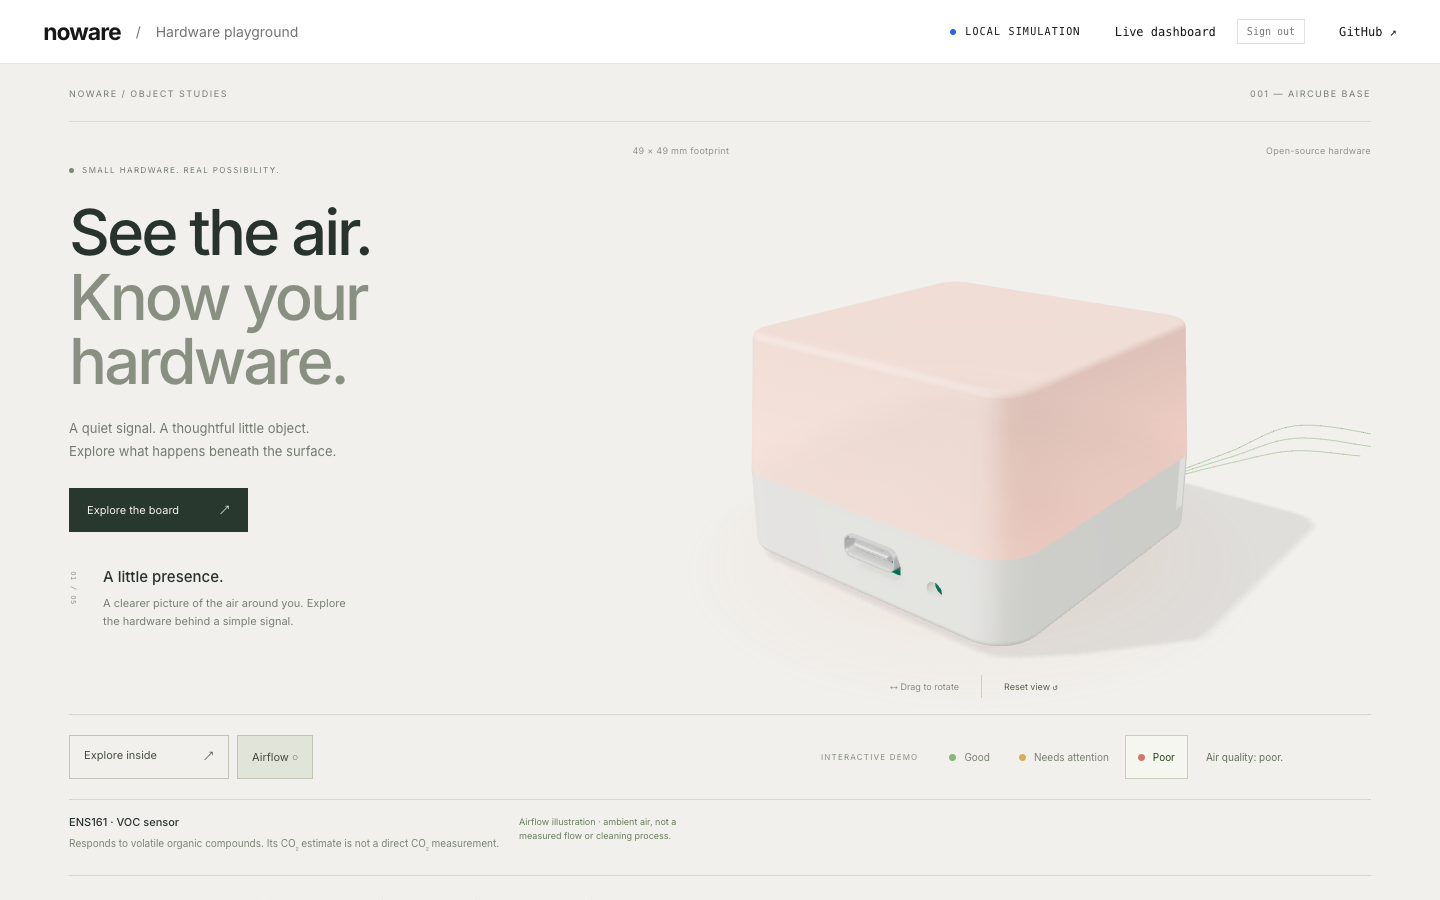
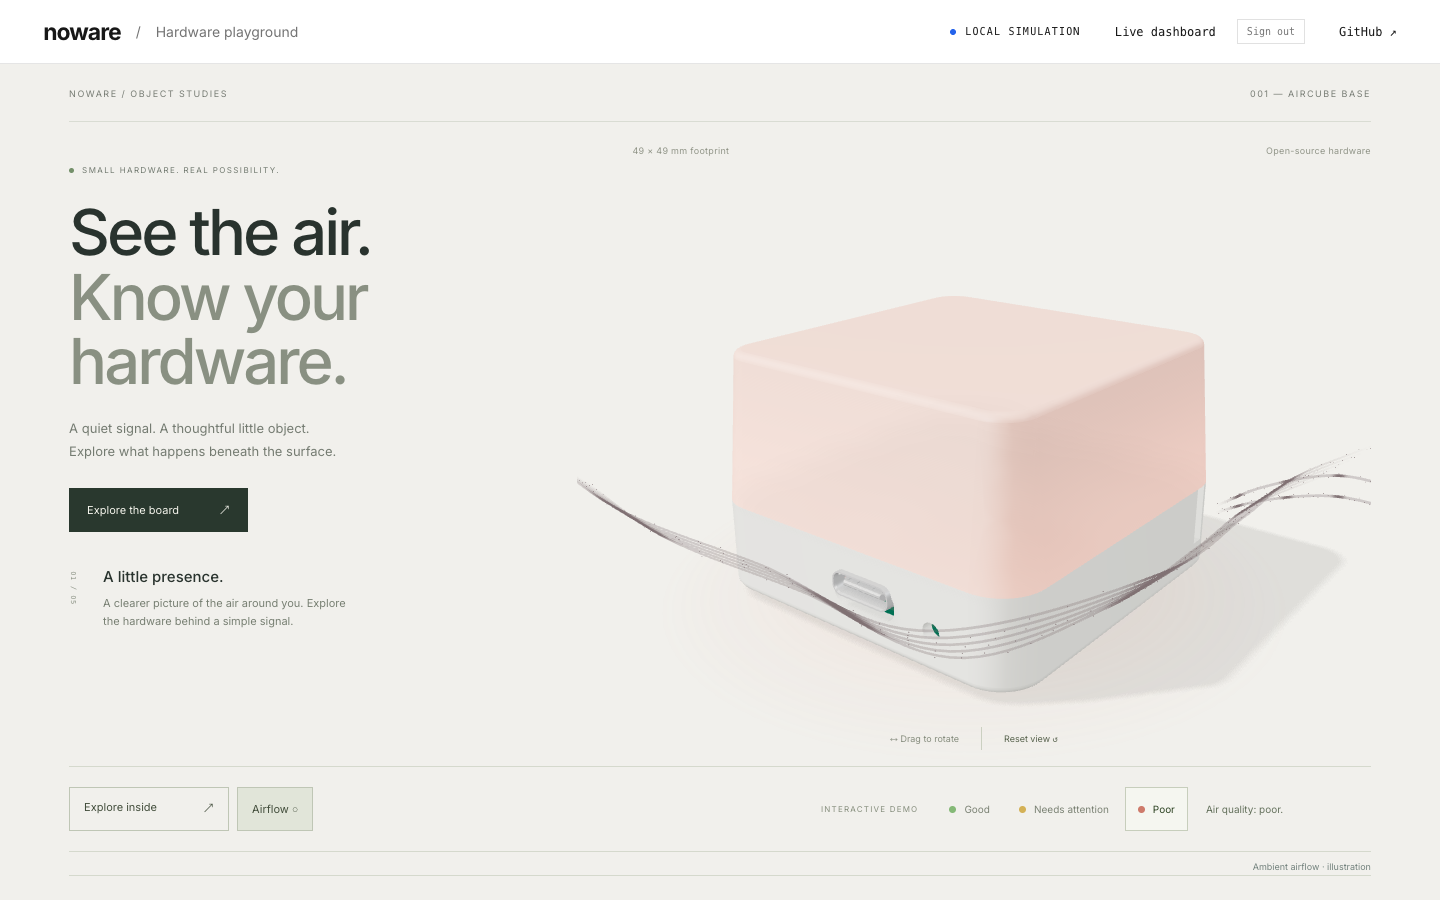
Make ambient airflow more visible and simplify homepage details

diff --git a/src/showcase/index.js b/src/showcase/index.js
@@ -1,13 +1,20 @@
 import './showcase.css';
-import {chapters,components,storyPose} from './config.js';
+import {chapters,storyPose} from './config.js';
 export function mountShowcase(){
  const section=document.createElement('section');section.className='hardware-story';section.id='hardware';section.setAttribute('aria-label','Explore AirCube hardware');
- section.innerHTML=`<div class="hardware-sticky"><div class="hardware-topline"><span>NOWARE / OBJECT STUDIES</span><span>001 — AIRCUBE BASE</span></div><div class="hardware-layout"><div class="hardware-copy"><div class="hardware-kicker"><span></span> SMALL HARDWARE. REAL POSSIBILITY.</div><h2>See the air.<br><em>Know your<br class="desktop-break"> hardware.</em></h2><p class="hardware-intro">A quiet signal. A thoughtful little object.<br>Explore what happens beneath the surface.</p><a class="hardware-cta" href="#playground">Explore the board <span>↗</span></a><div class="hardware-chapter"><span id="hardware-number">01 / 05</span><h3 id="hardware-title">A little presence.</h3><p id="hardware-description">A clearer picture of the air around you. Explore the hardware behind a simple signal.</p></div></div><div class="hardware-visual"><div class="hardware-model-meta"><span>49 × 49 mm footprint</span><span>Open-source hardware</span></div><img class="hardware-poster" src="/showcase/poster.webp" alt="AirCube Base, a softly illuminated translucent top on a warm white rounded enclosure" width="1100" height="1000" fetchpriority="high"><div class="hardware-canvas"></div><div class="hardware-anchors"><button data-anchor="diffuser" data-part="diffuser" hidden>Diffuser</button><button data-anchor="U2" data-part="U2" hidden>ENS161</button><button data-anchor="pcb" data-part="pcb" hidden>Base PCB</button></div><div class="hardware-view-tools"><span>↔ Drag to rotate</span><button data-action="reset">Reset view ↺</button></div><p class="hardware-fallback" role="status">Loading the interactive model…</p></div></div><div class="hardware-controls"><div class="hardware-assembly"><button data-action="explode" aria-pressed="false">Explore inside <span>↗</span></button><button data-action="airflow" aria-pressed="false">Airflow <span>○</span></button></div><div class="hardware-air"><span class="hardware-demo">INTERACTIVE DEMO</span><div role="group" aria-label="Air quality demonstration"><button data-air="good" aria-pressed="true"><i></i>Good</button><button data-air="attention" aria-pressed="false"><i></i>Needs attention</button><button data-air="poor" aria-pressed="false"><i></i>Poor</button></div><span class="hardware-status" role="status">Air quality: good.</span></div></div><div class="hardware-details"><div class="hardware-part-copy" aria-live="polite"><strong>Designed to be understood.</strong><span>Open the housing, then select a component to look closer.</span></div><div class="hardware-part-buttons" aria-label="Inspect components" hidden>${['diffuser','airwall','U2','U10','U7','pcb'].map(n=>`<button data-part="${n}">${components[n][0].split(' · ')[0]}</button>`).join('')}</div><p class="hardware-flow-note" hidden>Airflow illustration · ambient air, not a measured flow or cleaning process.</p></div><nav class="hardware-chapters" aria-label="Hardware story">${['Meet the hardware','Explore inside','Follow the air','Read the light','Keep exploring'].map((t,i)=>`<button data-chapter="${i}" aria-current="${i===0?'step':'false'}"><span>0${i+1}</span>${t}</button>`).join('')}<button data-action="scroll" hidden>Resume scroll story ↓</button></nav><div class="hardware-bottomline"><span>BUILT FROM REAL CAD. MADE FOR CURIOSITY.</span><a href="/showcase/README.md" target="_blank" rel="noreferrer">Model & source notes ↗</a></div></div>`;
- document.querySelector('header').after(section);document.querySelector('.intro').id='playground';
+ section.innerHTML=`<div class="hardware-sticky"><div class="hardware-topline"><span>NOWARE / OBJECT STUDIES</span><span>001 — AIRCUBE BASE</span></div><div class="hardware-layout"><div class="hardware-copy"><div class="hardware-kicker"><span></span> SMALL HARDWARE. REAL POSSIBILITY.</div><h2>See the air.<br><em>Know your<br class="desktop-break"> hardware.</em></h2><p class="hardware-intro">A quiet signal. A thoughtful little object.<br>Explore what happens beneath the surface.</p><a class="hardware-cta" href="#playground">Explore the board <span>↗</span></a><div class="hardware-chapter"><span id="hardware-number">01 / 05</span><h3 id="hardware-title">A little presence.</h3><p id="hardware-description">A clearer picture of the air around you. Explore the hardware behind a simple signal.</p></div></div><div class="hardware-visual"><div class="hardware-model-meta"><span>49 × 49 mm footprint</span><span>Open-source hardware</span></div><img class="hardware-poster" src="/showcase/poster.webp" alt="AirCube Base, a softly illuminated translucent top on a warm white rounded enclosure" width="1100" height="1000" fetchpriority="high"><div class="hardware-canvas"></div><div class="hardware-anchors"><button data-anchor="diffuser" data-part="diffuser" hidden>Diffuser</button><button data-anchor="U2" data-part="U2" hidden>ENS161</button><button data-anchor="pcb" data-part="pcb" hidden>Base PCB</button></div><div class="hardware-view-tools"><span>↔ Drag to rotate</span><button data-action="reset">Reset view ↺</button></div><p class="hardware-fallback" role="status">Loading the interactive model…</p></div></div><div class="hardware-controls"><div class="hardware-assembly"><button data-action="explode" aria-pressed="false">Explore inside <span>↗</span></button><button data-action="airflow" aria-pressed="false">Airflow <span>○</span></button></div><div class="hardware-air"><span class="hardware-demo">INTERACTIVE DEMO</span><div role="group" aria-label="Air quality demonstration"><button data-air="good" aria-pressed="true"><i></i>Good</button><button data-air="attention" aria-pressed="false"><i></i>Needs attention</button><button data-air="poor" aria-pressed="false"><i></i>Poor</button></div><span class="hardware-status" role="status">Air quality: good.</span></div></div><p class="hardware-flow-note" hidden>Ambient airflow · illustration</p><nav class="hardware-chapters" aria-label="Hardware story">${['Meet the hardware','Explore inside','Follow the air','Read the light','Keep exploring'].map((t,i)=>`<button data-chapter="${i}" aria-current="${i===0?'step':'false'}"><span>0${i+1}</span>${t}</button>`).join('')}<button data-action="scroll" hidden>Resume scroll story ↓</button></nav><div class="hardware-bottomline"><span>BUILT FROM REAL CAD. MADE FOR CURIOSITY.</span><a href="/showcase/README.md" target="_blank" rel="noreferrer">Model & source notes ↗</a></div></div>`;
+ document.querySelector('header').after(section);
+ // Keep the engineering tools available on demand, without a PCB list filling
+ // the landing page. Existing event handlers and DOM references remain intact.
+ const playground=document.createElement('details');playground.id='playground';playground.className='hardware-playground';
+ playground.innerHTML='<summary>Hardware playground <span>Open the engineering tools ↗</span></summary>';
+ const intro=document.querySelector('.intro');intro.before(playground);
+ playground.append(intro,document.querySelector('main'));
+ section.querySelector('.hardware-cta').addEventListener('click',()=>{playground.open=true;});
  const $=s=>section.querySelector(s),reduced=matchMedia('(prefers-reduced-motion: reduce)'),mobile=matchMedia('(max-width: 700px)');
  const state={progress:0,air:'good',selected:null,mode:reduced.matches||mobile.matches?'manual':'scroll',exploded:false,airflow:null,rotation:0,tilt:0,dragging:false,reduced:reduced.matches};let scene,dead=false;
- function sync(){const pose=storyPose(state.progress),expanded=state.mode==='scroll'?pose.explode>.5:state.exploded;section.dataset.mode=state.mode;section.dataset.chapter=pose.chapter;section.dataset.selected=state.selected||'';section.style.setProperty('--air-color',({good:'#7dbb70',attention:'#cea338',poor:'#d26c5c'})[state.air]);$('#hardware-number').textContent=`0${pose.chapter+1} / 05`;$('#hardware-title').textContent=chapters[pose.chapter][1];$('#hardware-description').textContent=chapters[pose.chapter][2];$('[data-action="explode"]').innerHTML=(expanded?'Reassemble':'Explore inside')+' <span>↗</span>';$('[data-action="explode"]').setAttribute('aria-pressed',expanded);const flow=state.airflow??pose.flow;$('[data-action="airflow"]').setAttribute('aria-pressed',flow);$('.hardware-flow-note').hidden=!flow;$('.hardware-part-buttons').hidden=!expanded;$('[data-action="scroll"]').hidden=state.mode==='scroll'||mobile.matches||state.reduced;section.querySelectorAll('[data-chapter]').forEach(b=>b.setAttribute('aria-current',+b.dataset.chapter===pose.chapter?'step':'false'));scene?.wake();}
- function select(name){state.selected=name;$('.hardware-part-copy').innerHTML=`<strong>${components[name][0]}</strong><span>${components[name][1]}</span>`;section.querySelectorAll('[data-part]').forEach(b=>b.setAttribute('aria-pressed',b.dataset.part===name));sync()}
+ function sync(){const pose=storyPose(state.progress),expanded=state.mode==='scroll'?pose.explode>.5:state.exploded;section.dataset.mode=state.mode;section.dataset.chapter=pose.chapter;section.dataset.selected=state.selected||'';section.style.setProperty('--air-color',({good:'#7dbb70',attention:'#cea338',poor:'#d26c5c'})[state.air]);$('#hardware-number').textContent=`0${pose.chapter+1} / 05`;$('#hardware-title').textContent=chapters[pose.chapter][1];$('#hardware-description').textContent=chapters[pose.chapter][2];$('[data-action="explode"]').innerHTML=(expanded?'Reassemble':'Explore inside')+' <span>↗</span>';$('[data-action="explode"]').setAttribute('aria-pressed',expanded);const flow=state.airflow??pose.flow;$('[data-action="airflow"]').setAttribute('aria-pressed',flow);$('.hardware-flow-note').hidden=!flow;$('[data-action="scroll"]').hidden=state.mode==='scroll'||mobile.matches||state.reduced;section.querySelectorAll('[data-chapter]').forEach(b=>b.setAttribute('aria-current',+b.dataset.chapter===pose.chapter?'step':'false'));scene?.wake();}
+ function select(name){state.selected=name;section.querySelectorAll('[data-part]').forEach(b=>b.setAttribute('aria-pressed',b.dataset.part===name));sync()}
  section.addEventListener('click',e=>{const b=e.target.closest('button');if(!b)return;if(b.dataset.air){state.air=b.dataset.air;section.querySelectorAll('button[data-air]').forEach(el=>el.setAttribute('aria-pressed',el===b));$('.hardware-status').textContent='Air quality: '+({good:'good',attention:'needs attention',poor:'poor'})[state.air]+'.';}
  if(b.dataset.part)select(b.dataset.part);
  if(b.dataset.chapter){const i=+b.dataset.chapter;state.mode='manual';state.progress=i===4?1:(i+.5)/5;state.exploded=i===1||i===2;state.airflow=i===2;}
@@ -18,6 +25,6 @@ export function mountShowcase(){
  function scroll(){if(state.mode!=='scroll')return;const r=section.getBoundingClientRect();state.progress=Math.max(0,Math.min(1,-r.top/(section.offsetHeight-innerHeight)));sync()}
  function motion(){state.reduced=reduced.matches;if(state.reduced||mobile.matches){state.mode='manual';state.progress=0;state.exploded=false;}sync()}
  window.addEventListener('scroll',scroll,{passive:true});reduced.addEventListener('change',motion);mobile.addEventListener('change',motion);sync();
- import('./scene.js').then(({createScene})=>createScene($('.hardware-canvas'),state,select,()=>{if(dead)return;section.classList.add('hardware-ready');$('.hardware-fallback').hidden=true;})).then(s=>{scene=s;if(dead)s.dispose();else sync()}).catch(error=>{console.error('Hardware showcase:',error);section.classList.add('hardware-unavailable');$('.hardware-fallback').textContent='3D is unavailable. Explore the component descriptions and the board below.';});
+ import('./scene.js').then(({createScene})=>createScene($('.hardware-canvas'),state,select,()=>{if(dead)return;section.classList.add('hardware-ready');$('.hardware-fallback').hidden=true;})).then(s=>{scene=s;if(dead)s.dispose();else sync()}).catch(error=>{console.error('Hardware showcase:',error);section.classList.add('hardware-unavailable');$('.hardware-fallback').textContent='3D is unavailable. The product preview and hardware playground remain available.';});
  const cleanup=()=>{dead=true;scene?.dispose();window.removeEventListener('scroll',scroll);reduced.removeEventListener('change',motion);mobile.removeEventListener('change',motion)};window.addEventListener('pagehide',event=>{if(!event.persisted)cleanup()});return cleanup;
 }

diff --git a/src/showcase/airflow.js b/src/showcase/airflow.js
@@ -1,8 +1,84 @@
 import * as T from 'three';
 import {settings} from './config.js';
-// Exterior paths stop outside the front ventilation gap. No claimed internal fluid path.
-export function makeAirflow(){const group=new T.Group(),curves=[];const color=new T.Color('#91d980');
- for(let i=0;i<3;i++){const c=new T.CatmullRomCurve3([new T.Vector3(44+i*3,11+i*2,-38),new T.Vector3(36,12+i*2,-31),new T.Vector3(28,9+i,-28),new T.Vector3(22,7+i*.4,-23)]);curves.push(c);const g=new T.BufferGeometry().setFromPoints(c.getPoints(60));group.add(new T.Line(g,new T.LineBasicMaterial({color:color.clone().multiplyScalar(.48),transparent:true,opacity:.4})));}
- const positions=new Float32Array(settings.flowCount*3);const geo=new T.BufferGeometry();geo.setAttribute('position',new T.BufferAttribute(positions,3));const material=new T.PointsMaterial({color,size:.48,transparent:true,opacity:.8,depthWrite:false});group.add(new T.Points(geo,material));const v=new T.Vector3();
- return {group,update(time,tint,reduced){material.color.copy(tint);for(let i=0;i<settings.flowCount;i++){curves[i%3].getPoint((i/settings.flowCount+(reduced?0:time*.13))%1,v);v.toArray(positions,i*3)}geo.attributes.position.needsUpdate=true;}};
+
+// Ambient streamlines skirt the enclosure's exterior (49 mm footprint).
+// They never cross a solid wall or imply a fan, filter, or measured particle count.
+export function makeAirflow(){
+ const group=new T.Group();group.name='ambient-air';
+ const uniforms={time:{value:0},tint:{value:new T.Color('#627e81')}};
+ const material=new T.ShaderMaterial({
+  uniforms,transparent:true,depthWrite:false,side:T.FrontSide,
+  vertexShader:`uniform float time;varying vec2 flowUV;varying float edgeSoftness;
+   void main(){flowUV=uv;vec3 p=position;
+    p.y+=sin(position.x*0.13+position.z*0.08-time*0.9)*0.45;
+    vec4 view=modelViewMatrix*vec4(p,1.0);
+    edgeSoftness=pow(abs(dot(normalize(normalMatrix*normal),normalize(-view.xyz))),0.7);
+    gl_Position=projectionMatrix*view;}`,
+  fragmentShader:`uniform float time;uniform vec3 tint;varying vec2 flowUV;varying float edgeSoftness;
+   void main(){
+    float u=flowUV.x;
+    float pulse=pow(0.5+0.5*cos((u-time*0.12)*25.1327),12.0);
+    float fade=smoothstep(0.0,0.10,u)*(1.0-smoothstep(0.87,1.0,u));
+    float alpha=(0.10+pulse*0.78)*fade*edgeSoftness;
+    gl_FragColor=vec4(tint,alpha);
+    #include <colorspace_fragment>
+   }`
+ });
+ const curves=[];
+ // Five long paths travel around the visible front and right side, then past
+ // the sensing-side corner. Depth and spacing vary gently, without turbulence.
+ for(let i=0;i<5;i++){
+  const spread=i*2.0;
+  curves.push(new T.CatmullRomCurve3([
+   new T.Vector3(-39,10+spread,29+spread),
+   new T.Vector3(-27,8+spread,31+spread),
+   new T.Vector3(-3,7+spread,29+spread),
+   new T.Vector3(22,8+spread,30+spread),
+   new T.Vector3(30+spread,10+spread,15),
+   new T.Vector3(29+spread,8+spread,-9),
+   new T.Vector3(28+spread,7+spread,-29),
+   new T.Vector3(32+spread,9+spread,-38)
+  ],false,'centripetal'));
+ }
+ // Two quieter paths approach the sensing opening from the open exterior.
+ for(let i=0;i<2;i++)curves.push(new T.CatmullRomCurve3([
+  new T.Vector3(48,9+i*3,-34),new T.Vector3(39,11+i*3,-29),
+  new T.Vector3(30,9+i*2,-26),new T.Vector3(24.9,7+i,-22.5)
+ ]));
+ const samples=curves.map((curve,i)=>{
+  const mesh=new T.Mesh(new T.TubeGeometry(curve,100,i<5?.14:.19,5,false),material);
+  mesh.frustumCulled=false;group.add(mesh);
+  return curve.getPoints(240);
+ });
+ const count=innerWidth<700?Math.round(settings.flowCount*.55):settings.flowCount;
+ const positions=new Float32Array(count*3);
+ const geometry=new T.BufferGeometry();geometry.setAttribute('position',new T.BufferAttribute(positions,3));
+ const pointsMaterial=new T.ShaderMaterial({
+  uniforms,transparent:true,depthWrite:false,
+  vertexShader:`varying float softness;
+   void main(){vec4 p=modelViewMatrix*vec4(position,1.0);gl_Position=projectionMatrix*p;
+    gl_PointSize=clamp(230.0/-p.z,1.5,3.5);softness=0.65;}`,
+  fragmentShader:`uniform vec3 tint;varying float softness;
+   void main(){float radius=length(gl_PointCoord-0.5)*2.0;
+    float alpha=(1.0-smoothstep(0.15,1.0,radius))*softness;
+    gl_FragColor=vec4(tint,alpha);
+    #include <colorspace_fragment>
+   }`
+ });
+ const points=new T.Points(geometry,pointsMaterial);points.frustumCulled=false;group.add(points);
+ const neutral=new T.Color('#526e75'),v=new T.Vector3();
+ return {group,update(time,tint,reduced){
+  const t=reduced?0:time;uniforms.time.value=t;
+  uniforms.tint.value.copy(neutral).lerp(tint,.18);
+  for(let i=0;i<count;i++){
+   const lane=i%samples.length,list=samples[lane];
+   const phase=(i*.61803398875+t*(lane<5?.085:.12))%1;
+   const n=phase*240,index=Math.floor(n);
+   v.copy(list[index]).lerp(list[Math.min(index+1,240)],n-index);
+   // Tiny coherent drift, confined to the exterior clearance.
+   v.y+=Math.sin(i*2.3+t*.7)*.35;
+   v.toArray(positions,i*3);
+  }
+  geometry.attributes.position.needsUpdate=true;
+ }};
 }

diff --git a/src/showcase/showcase.css b/src/showcase/showcase.css
@@ -5,3 +5,6 @@
 @media(prefers-reduced-motion:reduce){.hardware-story{height:auto}.hardware-sticky{position:relative}.hardware-poster{transition:none}}
 .hardware-anchors [data-anchor=pcb]{transform:translate(-175px,-12px)}.hardware-anchors [data-anchor=pcb]:before{left:auto;right:-60px;width:60px}.hardware-anchors [data-anchor=diffuser]{transform:translate(130px,-12px)}.hardware-anchors [data-anchor=diffuser]:before{left:-45px;width:45px}
 @media(max-width:700px){.hardware-anchors [data-anchor=pcb]{transform:translate(-110px,-12px)}.hardware-anchors [data-anchor=pcb]:before{right:-20px;width:20px}.hardware-anchors [data-anchor=diffuser]{transform:translate(55px,-12px)}.hardware-anchors [data-anchor=diffuser]:before{left:-20px;width:20px}}
+.hardware-story>.hardware-sticky>.hardware-flow-note{max-width:none;margin:8px 0 0;min-height:15px;font-size:9px;text-align:right;color:#72817c}
+.hardware-playground{background:#f5f5f5}.hardware-playground>summary{list-style:none;display:flex;justify-content:space-between;align-items:center;cursor:pointer;padding:28px 4.8%;font-size:13px;color:#4c584e;border-bottom:1px solid #dedfd8}.hardware-playground>summary::-webkit-details-marker{display:none}.hardware-playground>summary span{font-size:10px;color:#7b8378}.hardware-playground>summary:focus-visible{outline:2px solid #4c683d;outline-offset:-5px}.hardware-playground[open]>summary{background:#e8ebe3}
+@media(max-width:700px){.hardware-playground>summary{padding:24px 22px;gap:20px}.hardware-playground>summary span{font-size:9px}}

diff --git a/src/showcase/config.js b/src/showcase/config.js
@@ -1,4 +1,4 @@
-export const settings={camera:[83,65,98],target:[0,19,0],fov:35,explode:{diffuser:39,airwall:23,pcb:12},colors:{good:'#91d980',attention:'#edc35b',poor:'#e87969'},pixelRatio:{desktop:1.7,mobile:1.3},flowCount:48};
+export const settings={camera:[83,65,98],target:[0,19,0],fov:35,explode:{diffuser:39,airwall:23,pcb:12},colors:{good:'#91d980',attention:'#edc35b',poor:'#e87969'},pixelRatio:{desktop:1.7,mobile:1.3},flowCount:280};
 export const chapters=[
  ['01','A little presence.','A clearer picture of the air around you. Explore the hardware behind a simple signal.'],
  ['02','Nothing to hide.','Lift the diffuser. Meet the board, the sensors, and the small details that make it work.'],

diff --git a/SHOWCASE-HANDOFF.md b/SHOWCASE-HANDOFF.md
@@ -15,10 +15,10 @@ It does not modify the public login page or deploy to noware.so.
   scroll/manual ownership. Manual chapter/explode choices persist until Resume
   scroll story. Air-quality choices never change automatically.
 - `src/showcase/config.js`: colors, camera, exploded offsets, chapter copy,
-  component explanations, quality and particle settings.
+  component labels, quality and particle settings.
 - `src/showcase/scene.js`: lighting, materials, asset loading, picking, limited
   drag rotation, camera framing, render lifecycle and projected leaders.
-- `src/showcase/airflow.js`: three exterior streamlines and one batched point mesh.
+- `src/showcase/airflow.js`: seven soft animated streamlines and one batched point mesh.
 - `src/showcase/showcase.css`: editorial layout, responsive styles, controls.
 - `public/showcase/`: GLB, immediate rendered poster, extracted PCB, license and
   detailed provenance/approximation notes. Conversion scripts in `scripts/showcase/`.
@@ -48,3 +48,5 @@ and illustrative materials/package heights. Optical scattering and airflow are
 presentation approximations. No physical iPhone/Android GPU testing performed.
 Three.js's shared bundle exceeds Vite's 500 kB advisory; it is dynamically loaded.
 The separate authenticated live dashboard and production deployment are unchanged.
+
+The PCB list and engineering tools are now collapsed by default under Hardware playground. The hero CTA opens them on demand. Component selection highlights the model without a persistent explanatory text row.

diff --git a/public/showcase/README.md b/public/showcase/README.md
@@ -54,7 +54,7 @@ heights are visual approximations, not fabrication references. USB shell details
 retain simplified material groups. S3 actuator, individual mounting screws,
 solder fillets, silkscreen printing, and underside copper are not reproduced.
 
-Airflow follows three exterior paths that stop outside the sensing-side corner;
+Airflow follows seven exterior paths around the front and sides, with two approaching the sensing-side corner;
 no internal fluid path is claimed. In exploded mode, the paths rise with the PCB.
 Particles represent ambient air, not dust counts, CO₂ molecules, air cleaning,
 forced ventilation, or measured velocity. Color controls are explicitly a demo,
